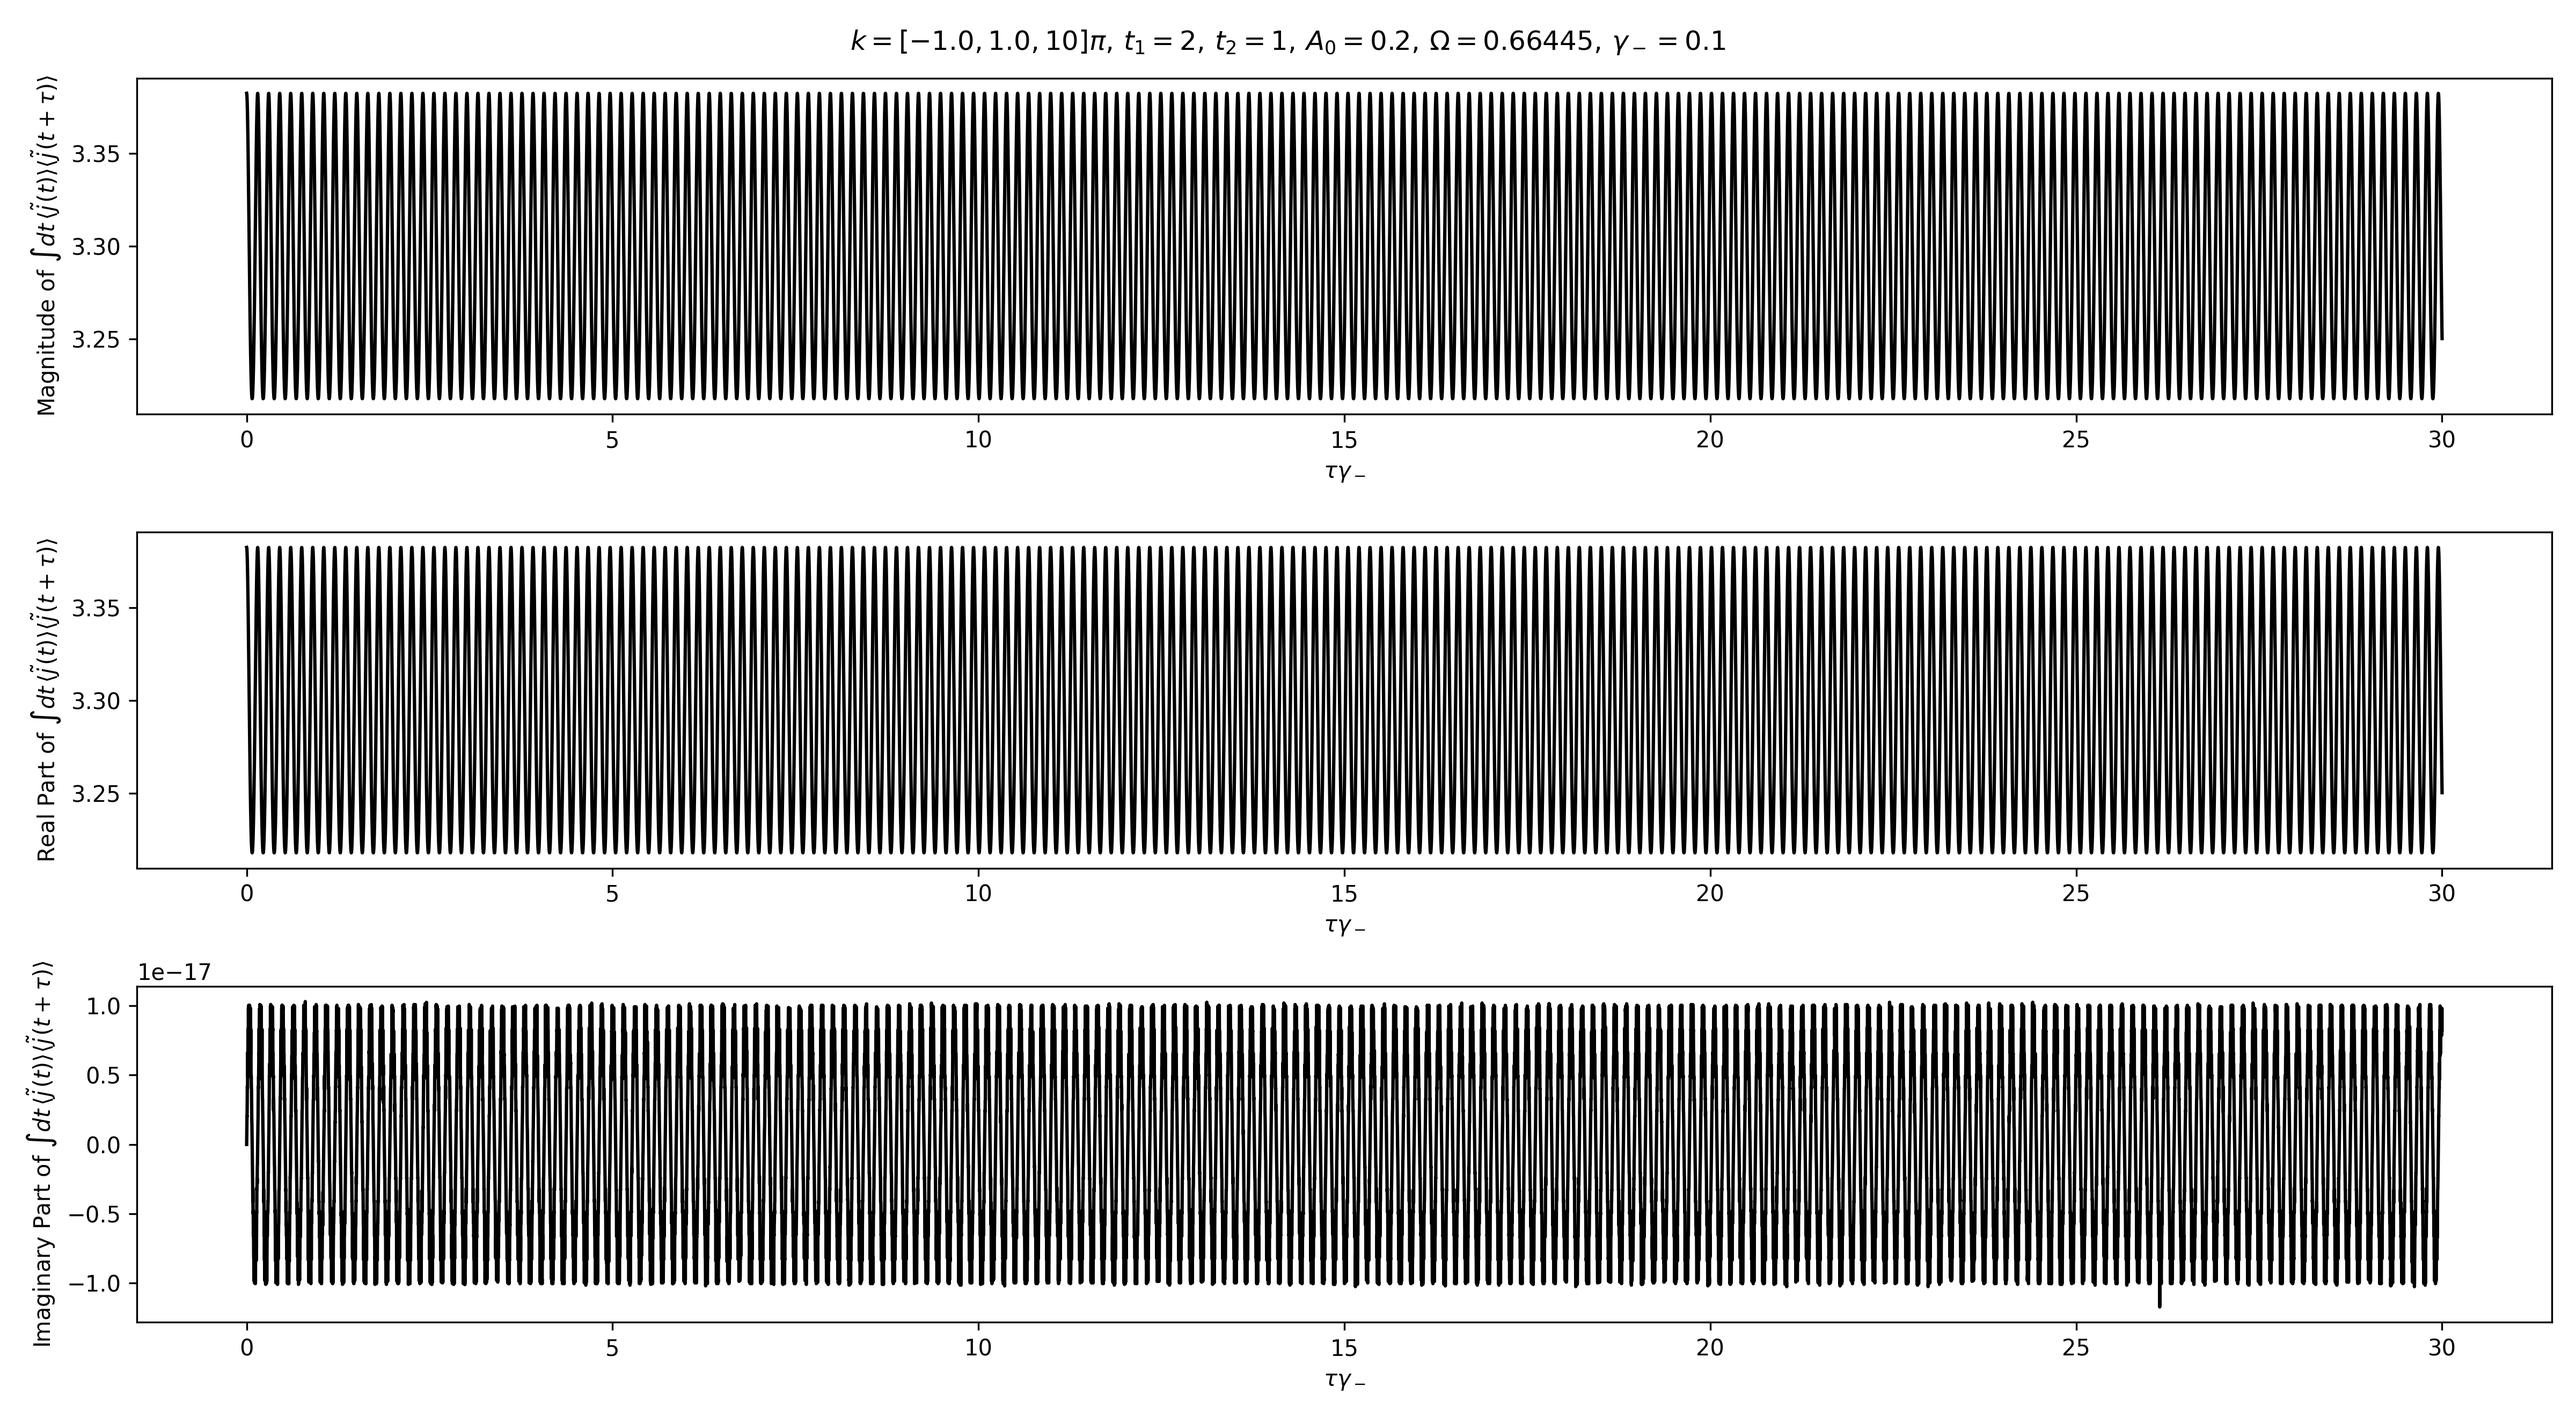
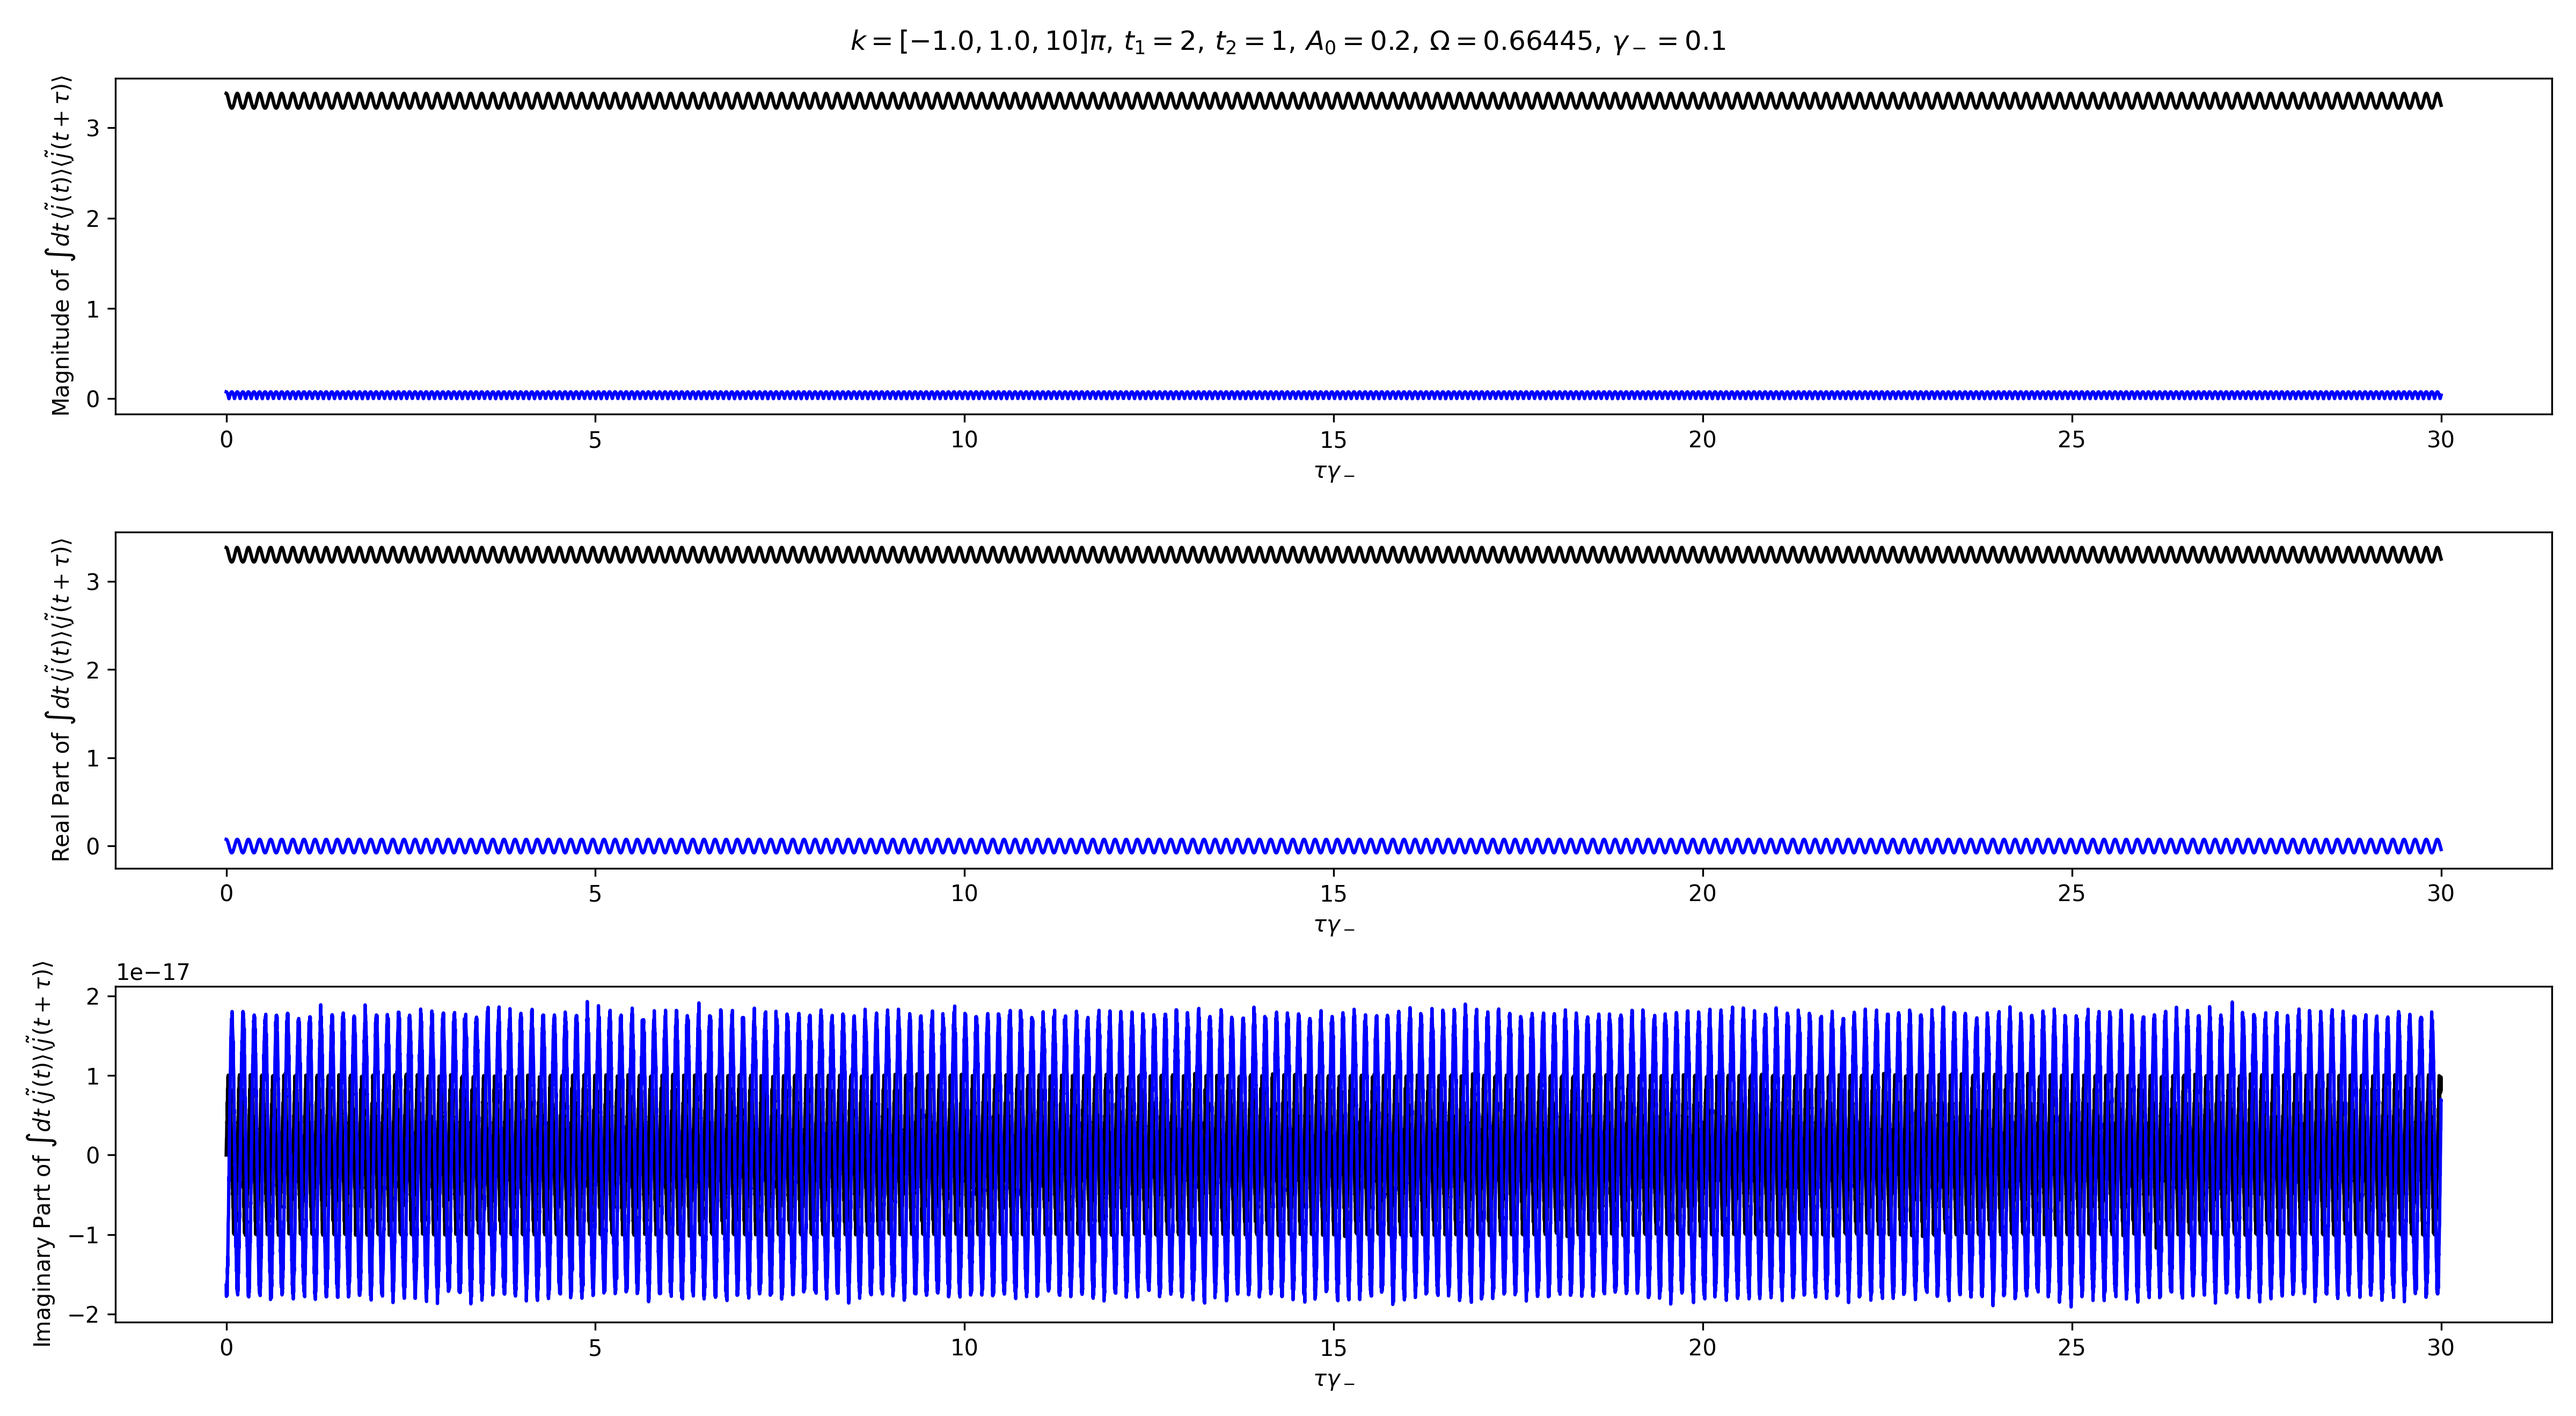
Discovered that the current product, when calculated using its tau fourier series and when numerically calculated using the individual fourier series, differ by a constant. This is really weird and I've detailed it more in the README.

diff --git a/SSHModel/SSHVisualiser.py b/SSHModel/SSHVisualiser.py
@@ -512,6 +512,18 @@ class SSHVisualiser:
             f"Imaginary Part of {currentLabel}"
         ]
 
+        # Manually calculates the double-product data.
+        if overplotManualProduct:
+            manualData = np.zeros((currentData.tAxisDim.size, currentData.tauAxisDim.size), dtype=complex)
+            for tIndex, t in enumerate(currentData.tAxisSec):
+                manualData[tIndex, :] = currentData.fourierExpansion.Evaluate(t) * currentData.fourierExpansion.Evaluate(t + currentData.tauAxisSec)
+
+            integratedManualData = self._sim.params.drivingFreq * np.trapezoid(
+                y = manualData,
+                x = currentData.tAxisSec,
+                axis = 0
+            )
+
         nrows, ncols = 3, 1
         fig, ax = plt.subplots(nrows, ncols, figsize=(16, 8.8))
 
@@ -519,6 +531,10 @@ class SSHVisualiser:
             # Plot the numerical solution.
             ax[row].plot(currentData.tauAxisDim, self._plottingFunctions[row](currentData.doubleProductData),
                         color = "Black")
+            
+            if overplotManualProduct:
+                ax[row].plot(currentData.tauAxisDim, self._plottingFunctions[row](integratedManualData),
+                            color = "Blue")
     
             ax[row].set_xlabel(self._tauLabel)
             ax[row].set_ylabel(yLabels[row])

diff --git a/1d-ssh-model.py b/1d-ssh-model.py
@@ -33,8 +33,8 @@ if __name__ == "__main__":
     # vis.PlotSingleTimeProducts(k, saveFigs=True, numTauPoints=None, show=False)
     
     # Everything for all k.
-    vis.PlotTotalCurrent(saveFig = True, show = False, overplotFourier=True)
-    vis.PlotConnectedCurrentCorrelator(saveFig = True, show = False)
-    vis.PlotNumericallyIntegratedHarmonics(saveFig = True, show = False, fLim=(-12.5, 12.5))
-    vis.PlotIntegratedDoubleTimeCurrentCorrelation(saveFig=True, show=False)
-    vis.PlotIntegratedDoubleTimeCurrentProduct(saveFig=True, overplotManualProduct=False, show=False)
+    # vis.PlotTotalCurrent(saveFig = True, show = False, overplotFourier=True)
+    # vis.PlotConnectedCurrentCorrelator(saveFig = True, show = False)
+    # vis.PlotNumericallyIntegratedHarmonics(saveFig = True, show = False, fLim=(-12.5, 12.5))
+    # vis.PlotIntegratedDoubleTimeCurrentCorrelation(saveFig=True, show=False)
+    vis.PlotIntegratedDoubleTimeCurrentProduct(saveFig=True, overplotManualProduct=True, show=True)

diff --git a/SSHModel/CurrentData.py b/SSHModel/CurrentData.py
@@ -20,6 +20,8 @@ class CurrentData:
     harmonics : np.ndarray[complex] = None
     tauAxisDim: np.ndarray[float] = None
     tauAxisSec: np.ndarray[float] = None
+    tAxisDim: np.ndarray[float] = None
+    tAxisSec: np.ndarray[float] = None
     freqAxis: np.ndarray[float] = None
 
     def __add__(self, other: CurrentData) -> CurrentData:
@@ -51,6 +53,8 @@ class CurrentData:
             harmonics = self.harmonics + other.harmonics,
             tauAxisDim = self.tauAxisDim,
             tauAxisSec = self.tauAxisSec,
+            tAxisDim = self.tAxisDim,
+            tAxisSec = self.tAxisSec,
             freqAxis = self.freqAxis
         )
 

diff --git a/SSHModel/SSH.py b/SSHModel/SSH.py
@@ -283,6 +283,9 @@ class SSH:
         self.__correlationData.tAxisSec = np.linspace(startPoint, endPoint, numT)
         self.__correlationData.tAxisDim = self.__correlationData.tAxisSec * self.__params.decayConstant
 
+        self.__currentData.tAxisSec = self.__correlationData.tAxisSec
+        self.__currentData.tAxisDim = self.__correlationData.tAxisDim
+
     def __CalculateDoubleTimeInitialConditions(self) -> np.ndarray[complex]:
         """
         Calculates the double-time initial conditions for all 9 double-time correlators, at each time t.

diff --git a/README.md b/README.md
@@ -15,7 +15,11 @@ could be functioning incorrectly.
 
   - The fourier series of the current operator matches the numerically calculated current operator perfectly.
 
-- [ ] The fourier series of $\int dt\, \langle j(t) \rangle \langle j(t + \tau) \rangle$ is wrong, despite the current fourier series being correct.
+- [x] The fourier series of $\int dt\, \langle j(t) \rangle \langle j(t + \tau) \rangle$ is wrong, despite the current fourier series being correct.
+
+  - So this may in some sense be true. The fourier series for $\langle j(t) \rangle$ is correct, but when we compare the analytically derived fourier series $\langle j(t) \rangle \langle j(t + \tau) \rangle = \sum_{n = -N}^N |j_n|^2 e^{i 2 \pi n \Omega t}$ to when we manually calculate $\langle j(t) \rangle \langle j(t + \tau) \rangle$ by numerically multiplying their individual fourier series, we find that the two differ by a *constant*.
+
+  The issue here is, if we assume that the manually calculated data is correct, then the connected current correlator won't go to zero. But clearly the theoretical and numerical data doesn't align, which is inherently weird.
 
 # SSH Model
 The relevant code for the 1-dimensional SSH model is stored within _SSHModel/_ as a package. We assume a chain with entirely real hopping amplitudes $t_1, t_2$, an infinite bulk (and
